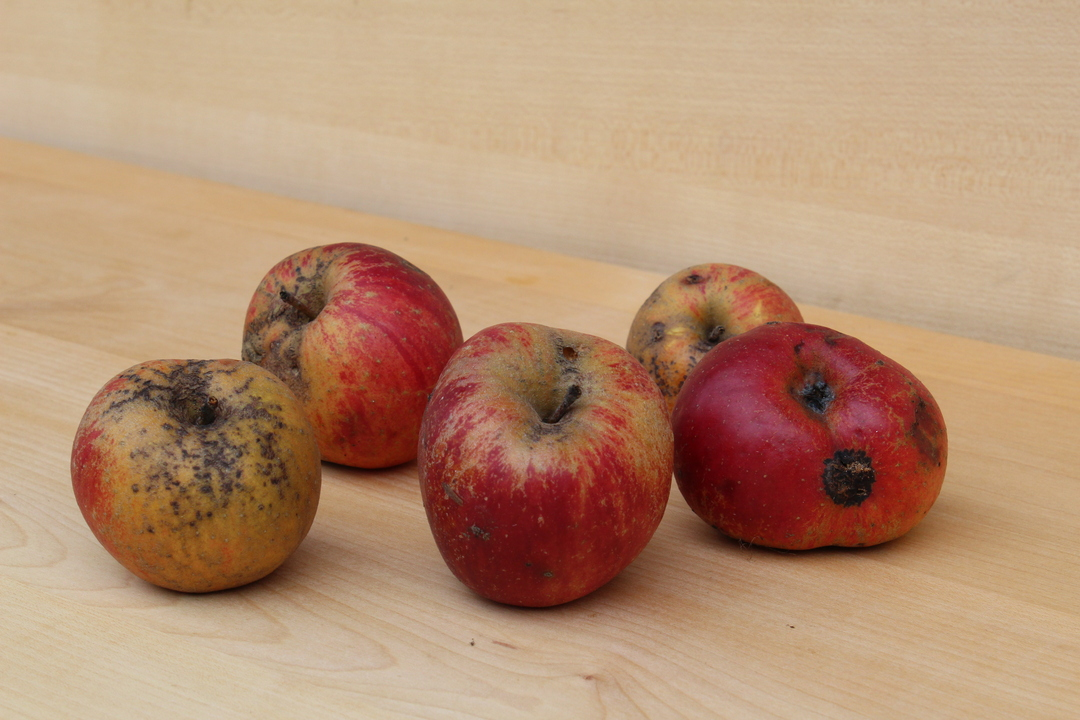
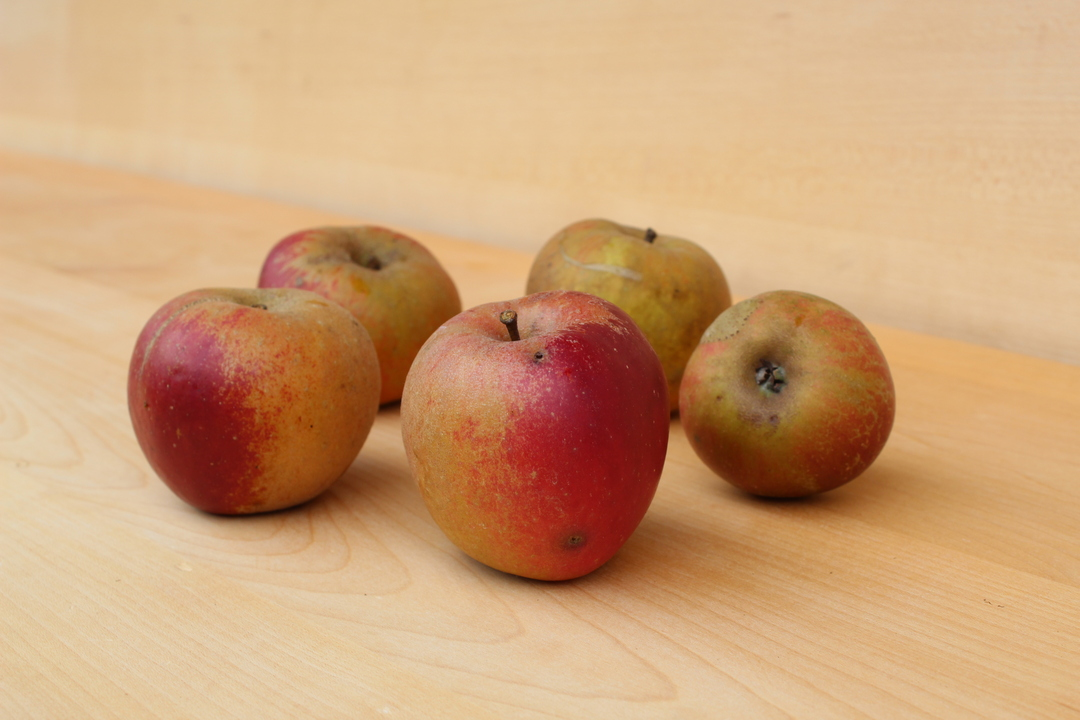
fix: correct apple pictures

diff --git a/src/Views/About/AppleVarieties.vue b/src/Views/About/AppleVarieties.vue
@@ -13,10 +13,10 @@ import carjevicTreeImage from '@/assets/img/apple-trees/carjevic.jpg?w=700'
 import grafenstajncTreeImage from '@/assets/img/apple-trees/grafenstajnc.jpg?w=700'
 import jonatanTreeImage from '@/assets/img/apple-trees/jonatan.jpg?w=700'
 import kanadkaTreeImage from '@/assets/img/apple-trees/kanadka.jpg?w=700'
+import koksovaRenetaTreeImage from '@/assets/img/apple-trees/koksova-reneta.jpg?w=700'
 import krivopeceljTreeImage from '@/assets/img/apple-trees/krivopecelj.jpg?w=700'
 import londonskiPepingTreeImage from '@/assets/img/apple-trees/londonski-peping.jpg?w=700'
 import mosanceljTreeImage from '@/assets/img/apple-trees/mosancelj.jpg?w=700'
-import sampanjskaRenetaTreeImage from '@/assets/img/apple-trees/sampanjska-reneta.jpg?w=700'
 import sentjakobkaTreeImage from '@/assets/img/apple-trees/sentjakobka.jpg?w=700'
 import zlataParmenaTreeImage from '@/assets/img/apple-trees/zlata-parmena.jpg?w=700'
 
@@ -28,10 +28,10 @@ import boskopFruitImage from '@/assets/img/apple-fruit/boskop.jpg?w=700'
 import carjevicFruitImage from '@/assets/img/apple-fruit/carjevic.jpg?w=700'
 import jonatanFruitImage from '@/assets/img/apple-fruit/jonatan.jpg?w=700'
 import kanadkaFruitImage from '@/assets/img/apple-fruit/kanadka.jpg?w=700'
+import koksovaRenetaFruitImage from '@/assets/img/apple-fruit/koksova-reneta.jpg?w=700'
 import krivopeceljFruitImage from '@/assets/img/apple-fruit/krivopecelj.jpg?w=700'
 import londonskiPepingFruitImage from '@/assets/img/apple-fruit/londonski-peping.jpg?w=700'
 import mosanceljFruitImage from '@/assets/img/apple-fruit/mosancelj.jpg?w=700'
-import sampanjskaRenetaFruitImage from '@/assets/img/apple-fruit/sampanjska-reneta.jpg?w=700'
 import zlataParmenaFruitImage from '@/assets/img/apple-fruit/zlata-parmena.jpg?w=700'
 
 </script>
@@ -54,12 +54,6 @@ import zlataParmenaFruitImage from '@/assets/img/apple-fruit/zlata-parmena.jpg?w
 
       <div class="flex flex-col gapy-y-3 max-w-2xl">
         <p>{{$t('apples.intro')}}</p>
-
-        <!-- Disclaimer -->
-        <p class="mt-3 text-base text-gray-700">
-          <span class="font-bold">{{$t('apples.imageDisclaimer.heading')}}</span>
-          {{$t('apples.imageDisclaimer.message')}}
-        </p>
       </div>
 
       <img 
@@ -166,6 +160,21 @@ import zlataParmenaFruitImage from '@/assets/img/apple-fruit/zlata-parmena.jpg?w
         </ApplePanel>
       </li>
 
+      <!-- Koksova reneta -->
+      <li>
+        <ApplePanel 
+          :title="$t('apples.koksovaReneta.name')"
+          :appleImg="koksovaRenetaFruitImage"
+          :appleImgAlt="$t('imgAlts.applesCrate')"
+          :treeImg="koksovaRenetaTreeImage"
+          :treeImgAlt="$t('imgAlts.appleBlossoms')"
+          :fruitCaption="$t('apples.koksovaReneta.fruitCaption')"
+          :treeCaption="$t('apples.koksovaReneta.treeCaption')"
+        >
+          {{$t('apples.koksovaReneta.description')}}
+        </ApplePanel>
+      </li>
+
       <!-- Krivopecelj -->
       <li>
         <ApplePanel 
@@ -208,21 +217,6 @@ import zlataParmenaFruitImage from '@/assets/img/apple-fruit/zlata-parmena.jpg?w
           :treeCaption="$t('apples.mošancelj.treeCaption')"
         >
           {{$t('apples.mošancelj.description')}}
-        </ApplePanel>
-      </li>
-
-      <!-- Šampanjska reneta -->
-      <li>
-        <ApplePanel 
-          :title="$t('apples.sampanjskaReneta.name')"
-          :appleImg="sampanjskaRenetaFruitImage"
-          :appleImgAlt="$t('imgAlts.applesCrate')"
-          :treeImg="sampanjskaRenetaTreeImage"
-          :treeImgAlt="$t('imgAlts.appleBlossoms')"
-          :fruitCaption="$t('apples.sampanjskaReneta.fruitCaption')"
-          :treeCaption="$t('apples.sampanjskaReneta.treeCaption')"
-        >
-          {{$t('apples.sampanjskaReneta.description')}}
         </ApplePanel>
       </li>
 
